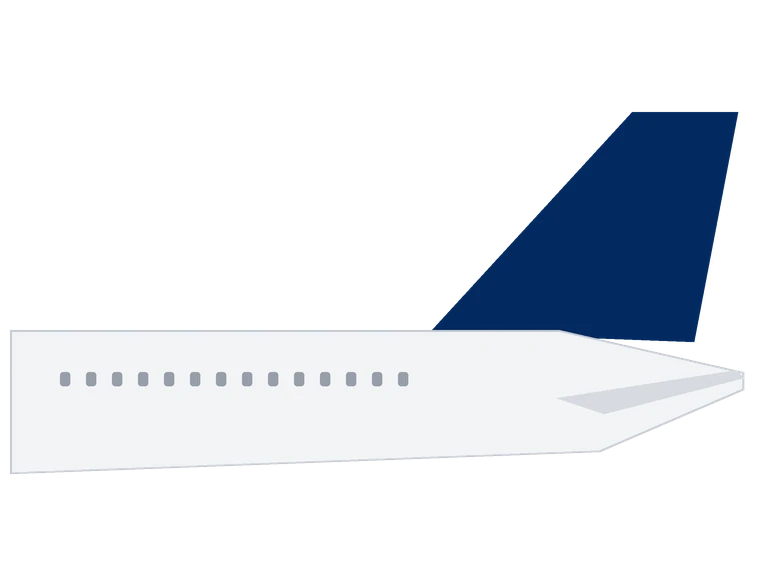
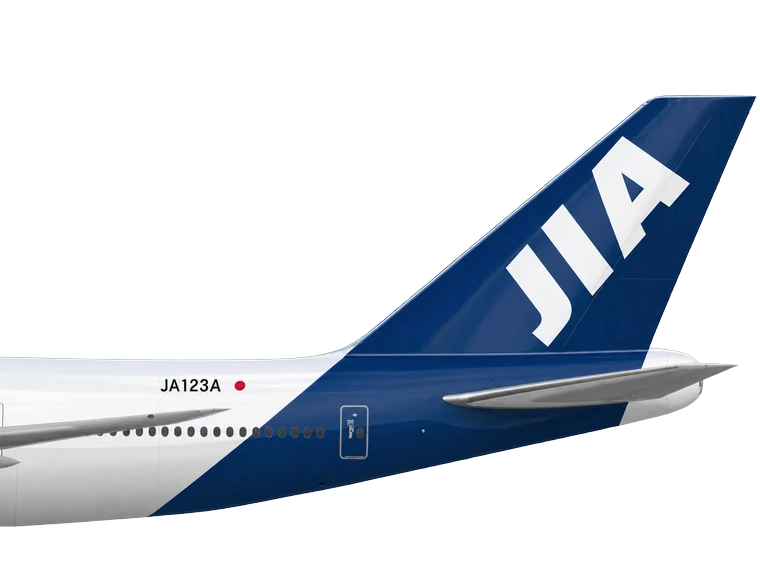
Replace three stand-in liveries, and a sharper one for a fourth member
Three members of the same group now have their own liveries in place of
the drawn stand-ins, and an existing member's small sunset render is
replaced by a larger one. Three arrived as transparent cutouts and only
needed framing.

The fourth arrived with an image-editor checkerboard baked into its
pixels, in shades almost identical to its white fuselage. The cutout
fits the checker's grid (period 9.74px, from a resampled original) on a
patch of sky, treats as backdrop only pixels matching the predicted
square, closes the hairlines between squares so the backdrop connects,
and opens the result to drop squares clinging to the outline. Where the
tail cone's white matched the light squares, its outline was traced
from the original and restored.

One member still has a stand-in.

Changed region(s): [[0.0, 0.1491, 0.9987, 0.9246], [0.0, 0.6263, 0.0303, 0.6561]]

diff --git a/assets/js/data.js b/assets/js/data.js
@@ -902,7 +902,7 @@ const MEMBERS = [
   },
   {
     name:'Virgin Caribbean', code:'VC', country:'Bahamas',
-    color:'#E01F27', tail:'assets/img/members/virgin-caribbean.webp',   // stand-in until the livery arrives
+    color:'#E01F27', tail:'assets/img/members/virgin-caribbean.webp',
     hubs:['SJU','MIA','NAS'], focus:[], joined:2026,
     blurb:'A Bahamian medium-cost carrier flying from San Juan, Miami and ' +
           'Nassau, known for its Oceanliner premium flights.',
@@ -944,7 +944,7 @@ const MEMBERS = [
   },
   {
     name:'Japan International Airways', short:'JIA', code:'JN', country:'Japan',
-    color:'#032A60', tail:'assets/img/members/jia.webp',   // stand-in until the livery arrives
+    color:'#032A60', tail:'assets/img/members/jia.webp',
     hubs:['HND','NRT'], focus:[], joined:2026,
     blurb:'A Tokyo carrier flying from Haneda and Narita, with international ' +
           'routes first and domestic flying second.',
@@ -974,7 +974,7 @@ const MEMBERS = [
   },
   {
     name:'London Airways', code:'LA', country:'United Kingdom',
-    color:'#012169', tail:'assets/img/members/london-airways.webp',   // stand-in until the livery arrives
+    color:'#012169', tail:'assets/img/members/london-airways.webp',
     hubs:['LHR'], focus:[], joined:2026,
     blurb:'A Heathrow-based carrier flying across Europe and, increasingly, ' +
           'to the United States.',

diff --git a/index.html b/index.html
@@ -163,7 +163,7 @@
     </div>
   </div>
 </footer>
-<script src="assets/js/data.js?v=784a9be5"></script>
+<script src="assets/js/data.js?v=1f437f90"></script>
 <script src="assets/js/site.js?v=756ac757"></script>
 <script>
   renderMembers(document.getElementById('membersHome'));

diff --git a/book.html b/book.html
@@ -220,7 +220,7 @@
     </div>
   </div>
 </footer>
-<script src="assets/js/data.js?v=784a9be5"></script>
+<script src="assets/js/data.js?v=1f437f90"></script>
 <script src="assets/js/site.js?v=756ac757"></script>
 <script src="assets/js/booking.js?v=3150a536"></script>
 <script>

diff --git a/bookings.html b/bookings.html
@@ -122,7 +122,7 @@
     </div>
   </div>
 </footer>
-<script src="assets/js/data.js?v=784a9be5"></script>
+<script src="assets/js/data.js?v=1f437f90"></script>
 <script src="assets/js/site.js?v=756ac757"></script>
 <script src="assets/js/booking.js?v=3150a536"></script>
 <script>

diff --git a/members.html b/members.html
@@ -121,7 +121,7 @@
     </div>
   </div>
 </footer>
-<script src="assets/js/data.js?v=784a9be5"></script>
+<script src="assets/js/data.js?v=1f437f90"></script>
 <script src="assets/js/site.js?v=756ac757"></script>
 <script>
   renderMembers(document.getElementById('membersAll'));

diff --git a/join.html b/join.html
@@ -171,7 +171,7 @@
     </div>
   </div>
 </footer>
-<script src="assets/js/data.js?v=784a9be5"></script>
+<script src="assets/js/data.js?v=1f437f90"></script>
 <script src="assets/js/site.js?v=756ac757"></script>
 <script>
   renderJoin(document.getElementById('joinGroups'));

diff --git a/news.html b/news.html
@@ -117,7 +117,7 @@
     </div>
   </div>
 </footer>
-<script src="assets/js/data.js?v=784a9be5"></script>
+<script src="assets/js/data.js?v=1f437f90"></script>
 <script src="assets/js/site.js?v=756ac757"></script>
 <script>
   renderPress(document.getElementById('releases'));

diff --git a/airline-air-siam.html b/airline-air-siam.html
@@ -188,7 +188,7 @@
     </div>
   </div>
 </footer>
-<script src="assets/js/data.js?v=784a9be5"></script>
+<script src="assets/js/data.js?v=1f437f90"></script>
 <script src="assets/js/site.js?v=756ac757"></script>
 <script>
   document.getElementById('ftMembers').innerHTML =

diff --git a/airline-akerair.html b/airline-akerair.html
@@ -225,7 +225,7 @@
     </div>
   </div>
 </footer>
-<script src="assets/js/data.js?v=784a9be5"></script>
+<script src="assets/js/data.js?v=1f437f90"></script>
 <script src="assets/js/site.js?v=756ac757"></script>
 <script>
   document.getElementById('ftMembers').innerHTML =

diff --git a/airline-altasib.html b/airline-altasib.html
@@ -204,7 +204,7 @@
     </div>
   </div>
 </footer>
-<script src="assets/js/data.js?v=784a9be5"></script>
+<script src="assets/js/data.js?v=1f437f90"></script>
 <script src="assets/js/site.js?v=756ac757"></script>
 <script>
   document.getElementById('ftMembers').innerHTML =

diff --git a/airline-caucausair.html b/airline-caucausair.html
@@ -234,7 +234,7 @@
     </div>
   </div>
 </footer>
-<script src="assets/js/data.js?v=784a9be5"></script>
+<script src="assets/js/data.js?v=1f437f90"></script>
 <script src="assets/js/site.js?v=756ac757"></script>
 <script>
   document.getElementById('ftMembers').innerHTML =

diff --git a/airline-cias.html b/airline-cias.html
@@ -235,7 +235,7 @@
     </div>
   </div>
 </footer>
-<script src="assets/js/data.js?v=784a9be5"></script>
+<script src="assets/js/data.js?v=1f437f90"></script>
 <script src="assets/js/site.js?v=756ac757"></script>
 <script>
   document.getElementById('ftMembers').innerHTML =
